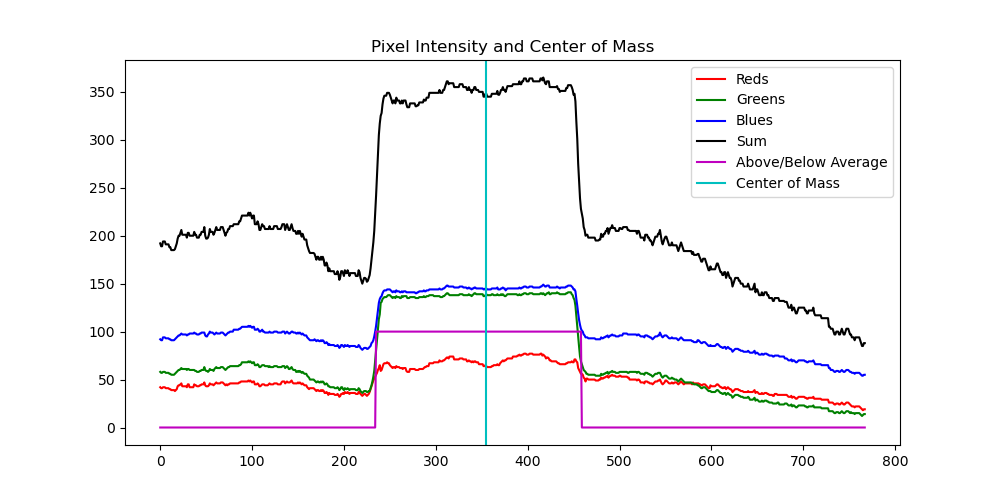
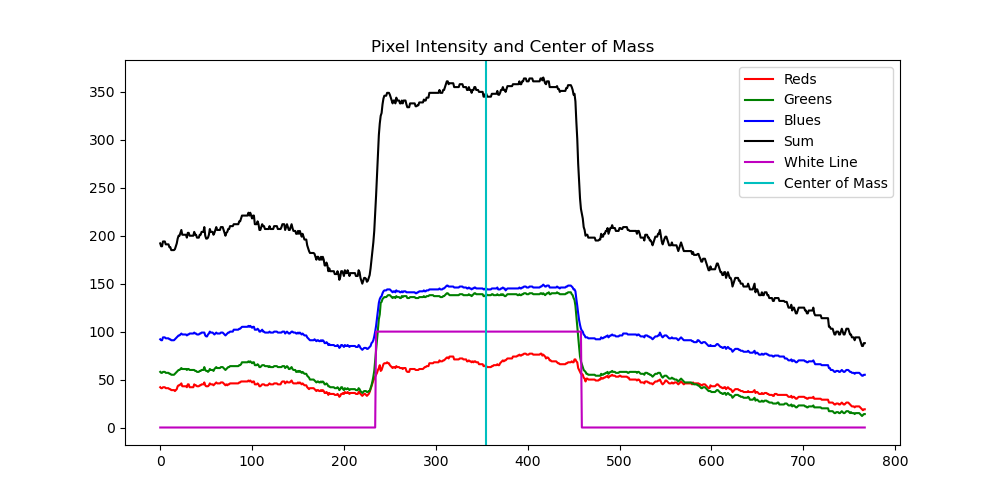
Minor Edits

Changed region(s): [[0.682, 0.15, 0.899, 0.39]]

diff --git a/HW11/centre.py b/HW11/centre.py
@@ -54,7 +54,7 @@ plt.plot(index, reds, 'r-', label='Reds')
 plt.plot(index, greens, 'g-', label='Greens')
 plt.plot(index, blues, 'b-', label='Blues')
 plt.plot(index, sum, 'k-', label='Sum')
-plt.plot(index, line, 'm-', label='Above/Below Average')
+plt.plot(index, line, 'm-', label='White Line')
 plt.axvline(x=center_of_mass, color='c', label='Center of Mass')  # Adding a vertical line for the center of mass
 plt.legend()  # Show legend to identify lines
 plt.title('Pixel Intensity and Center of Mass')
